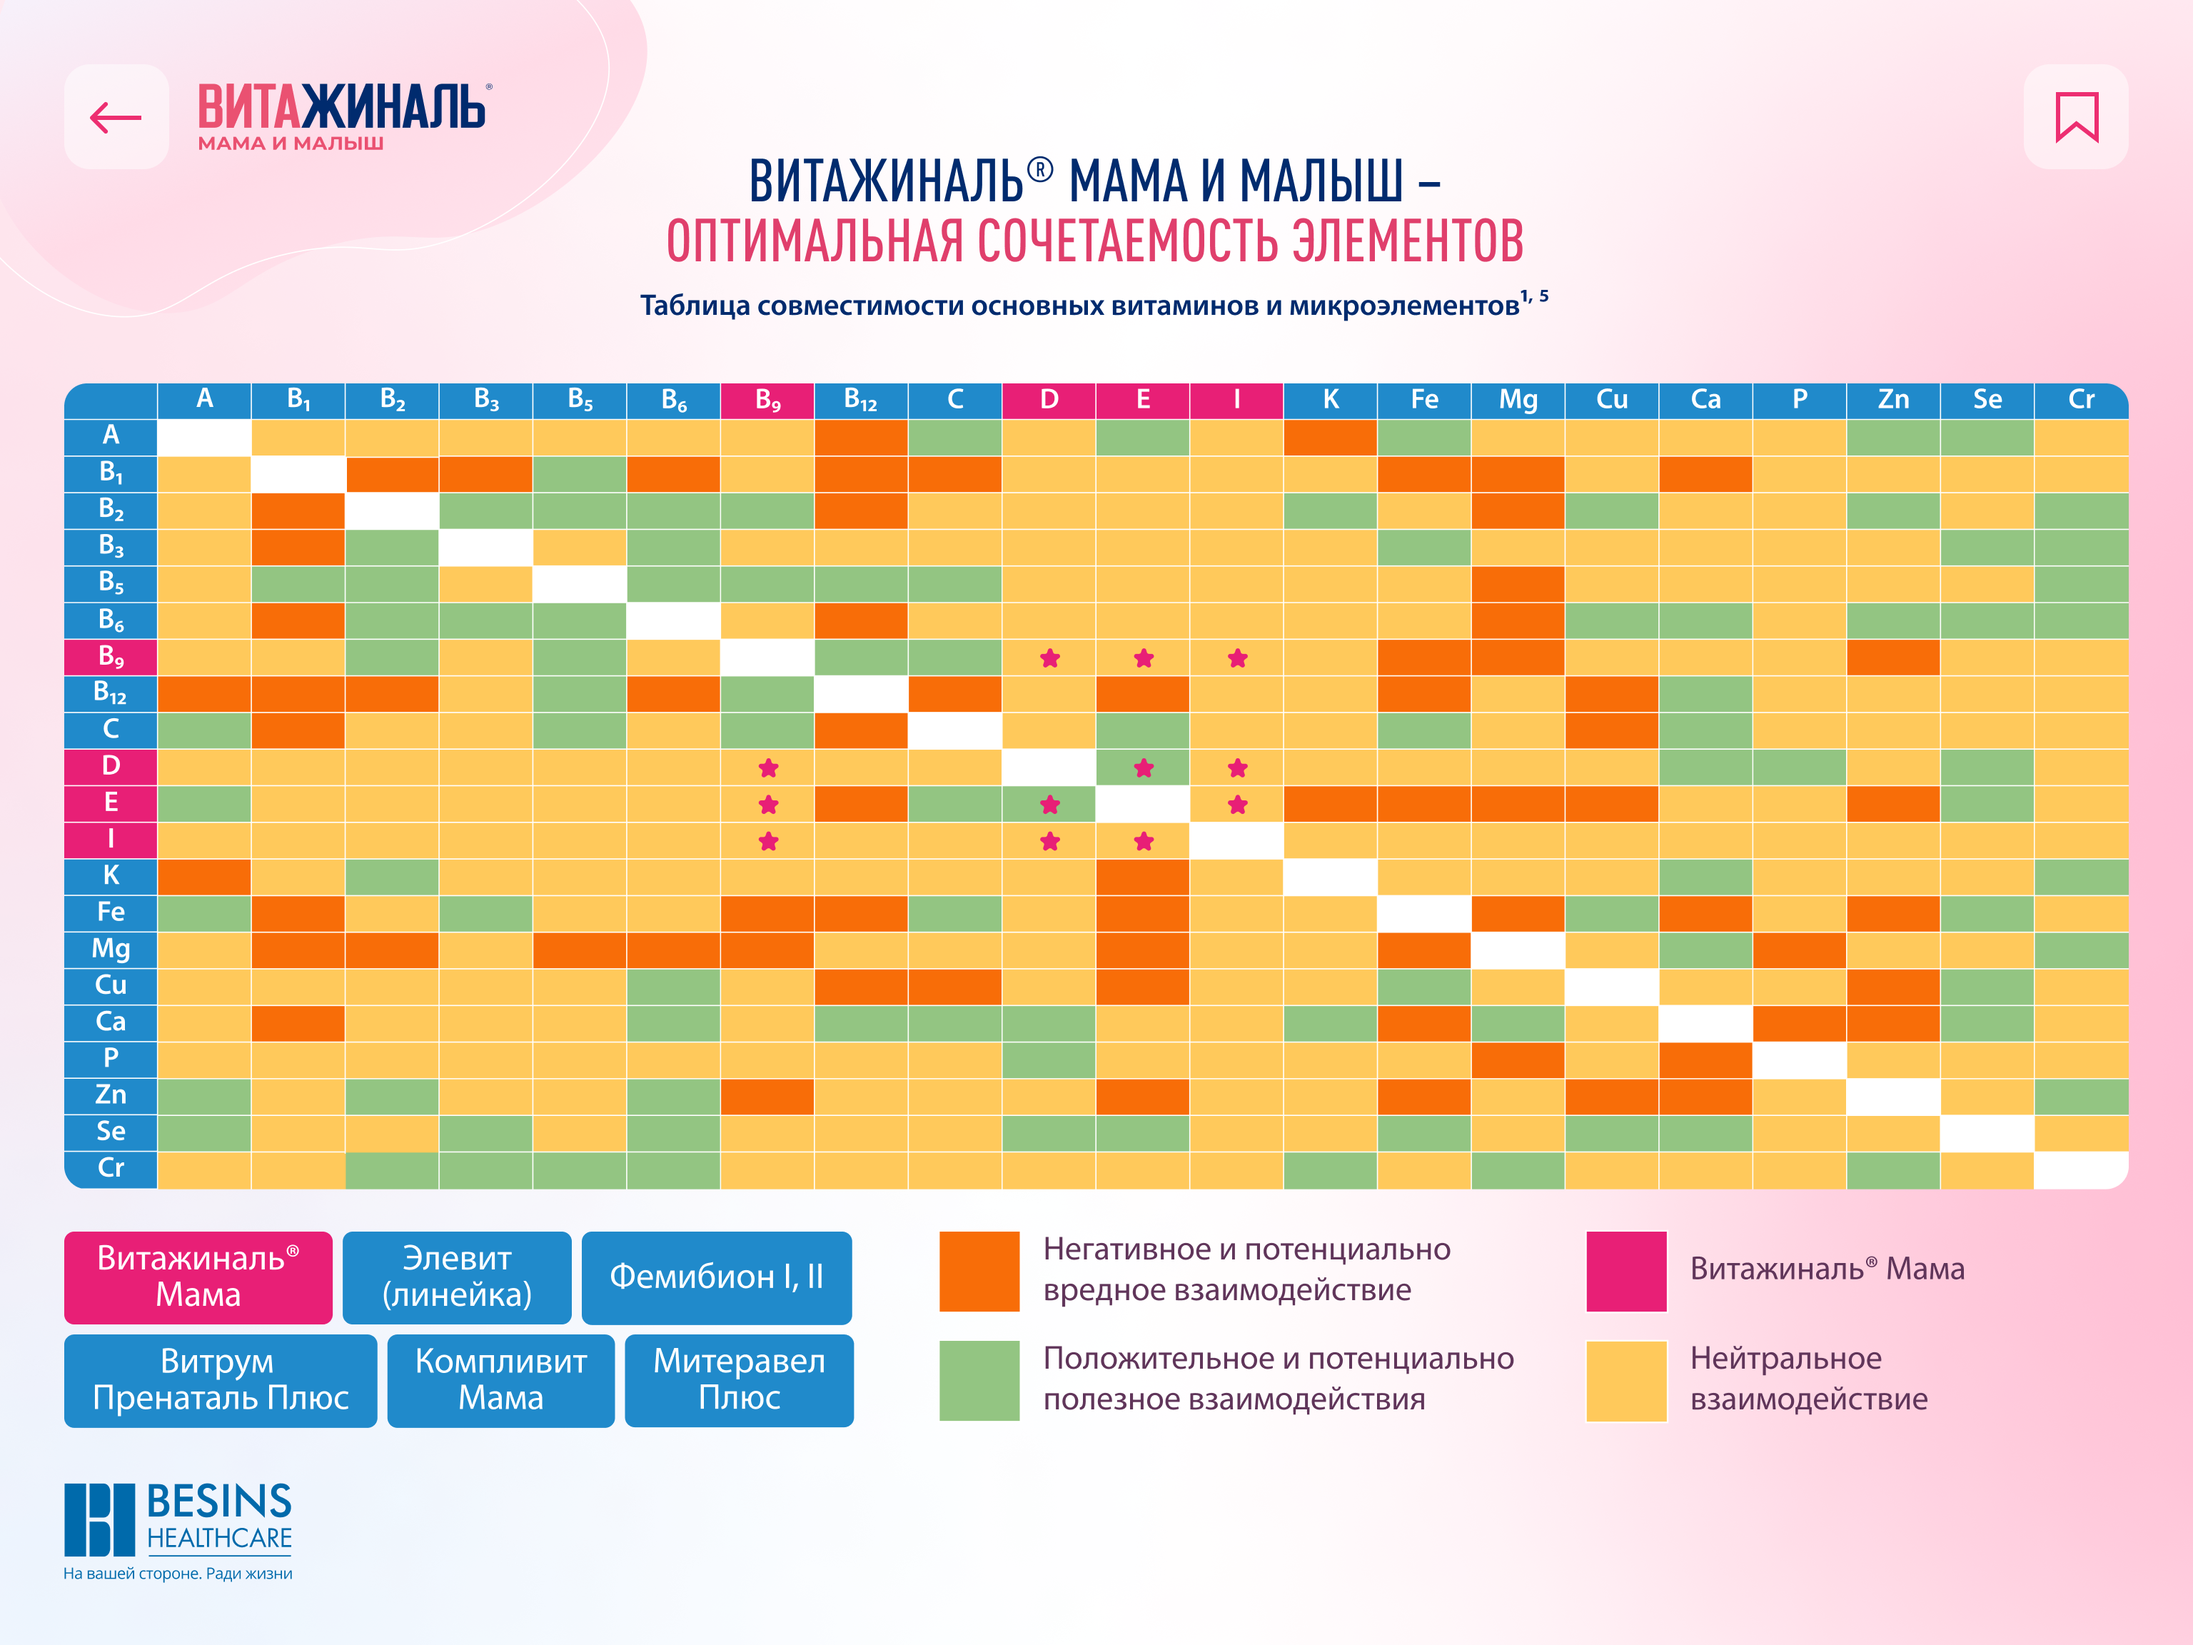
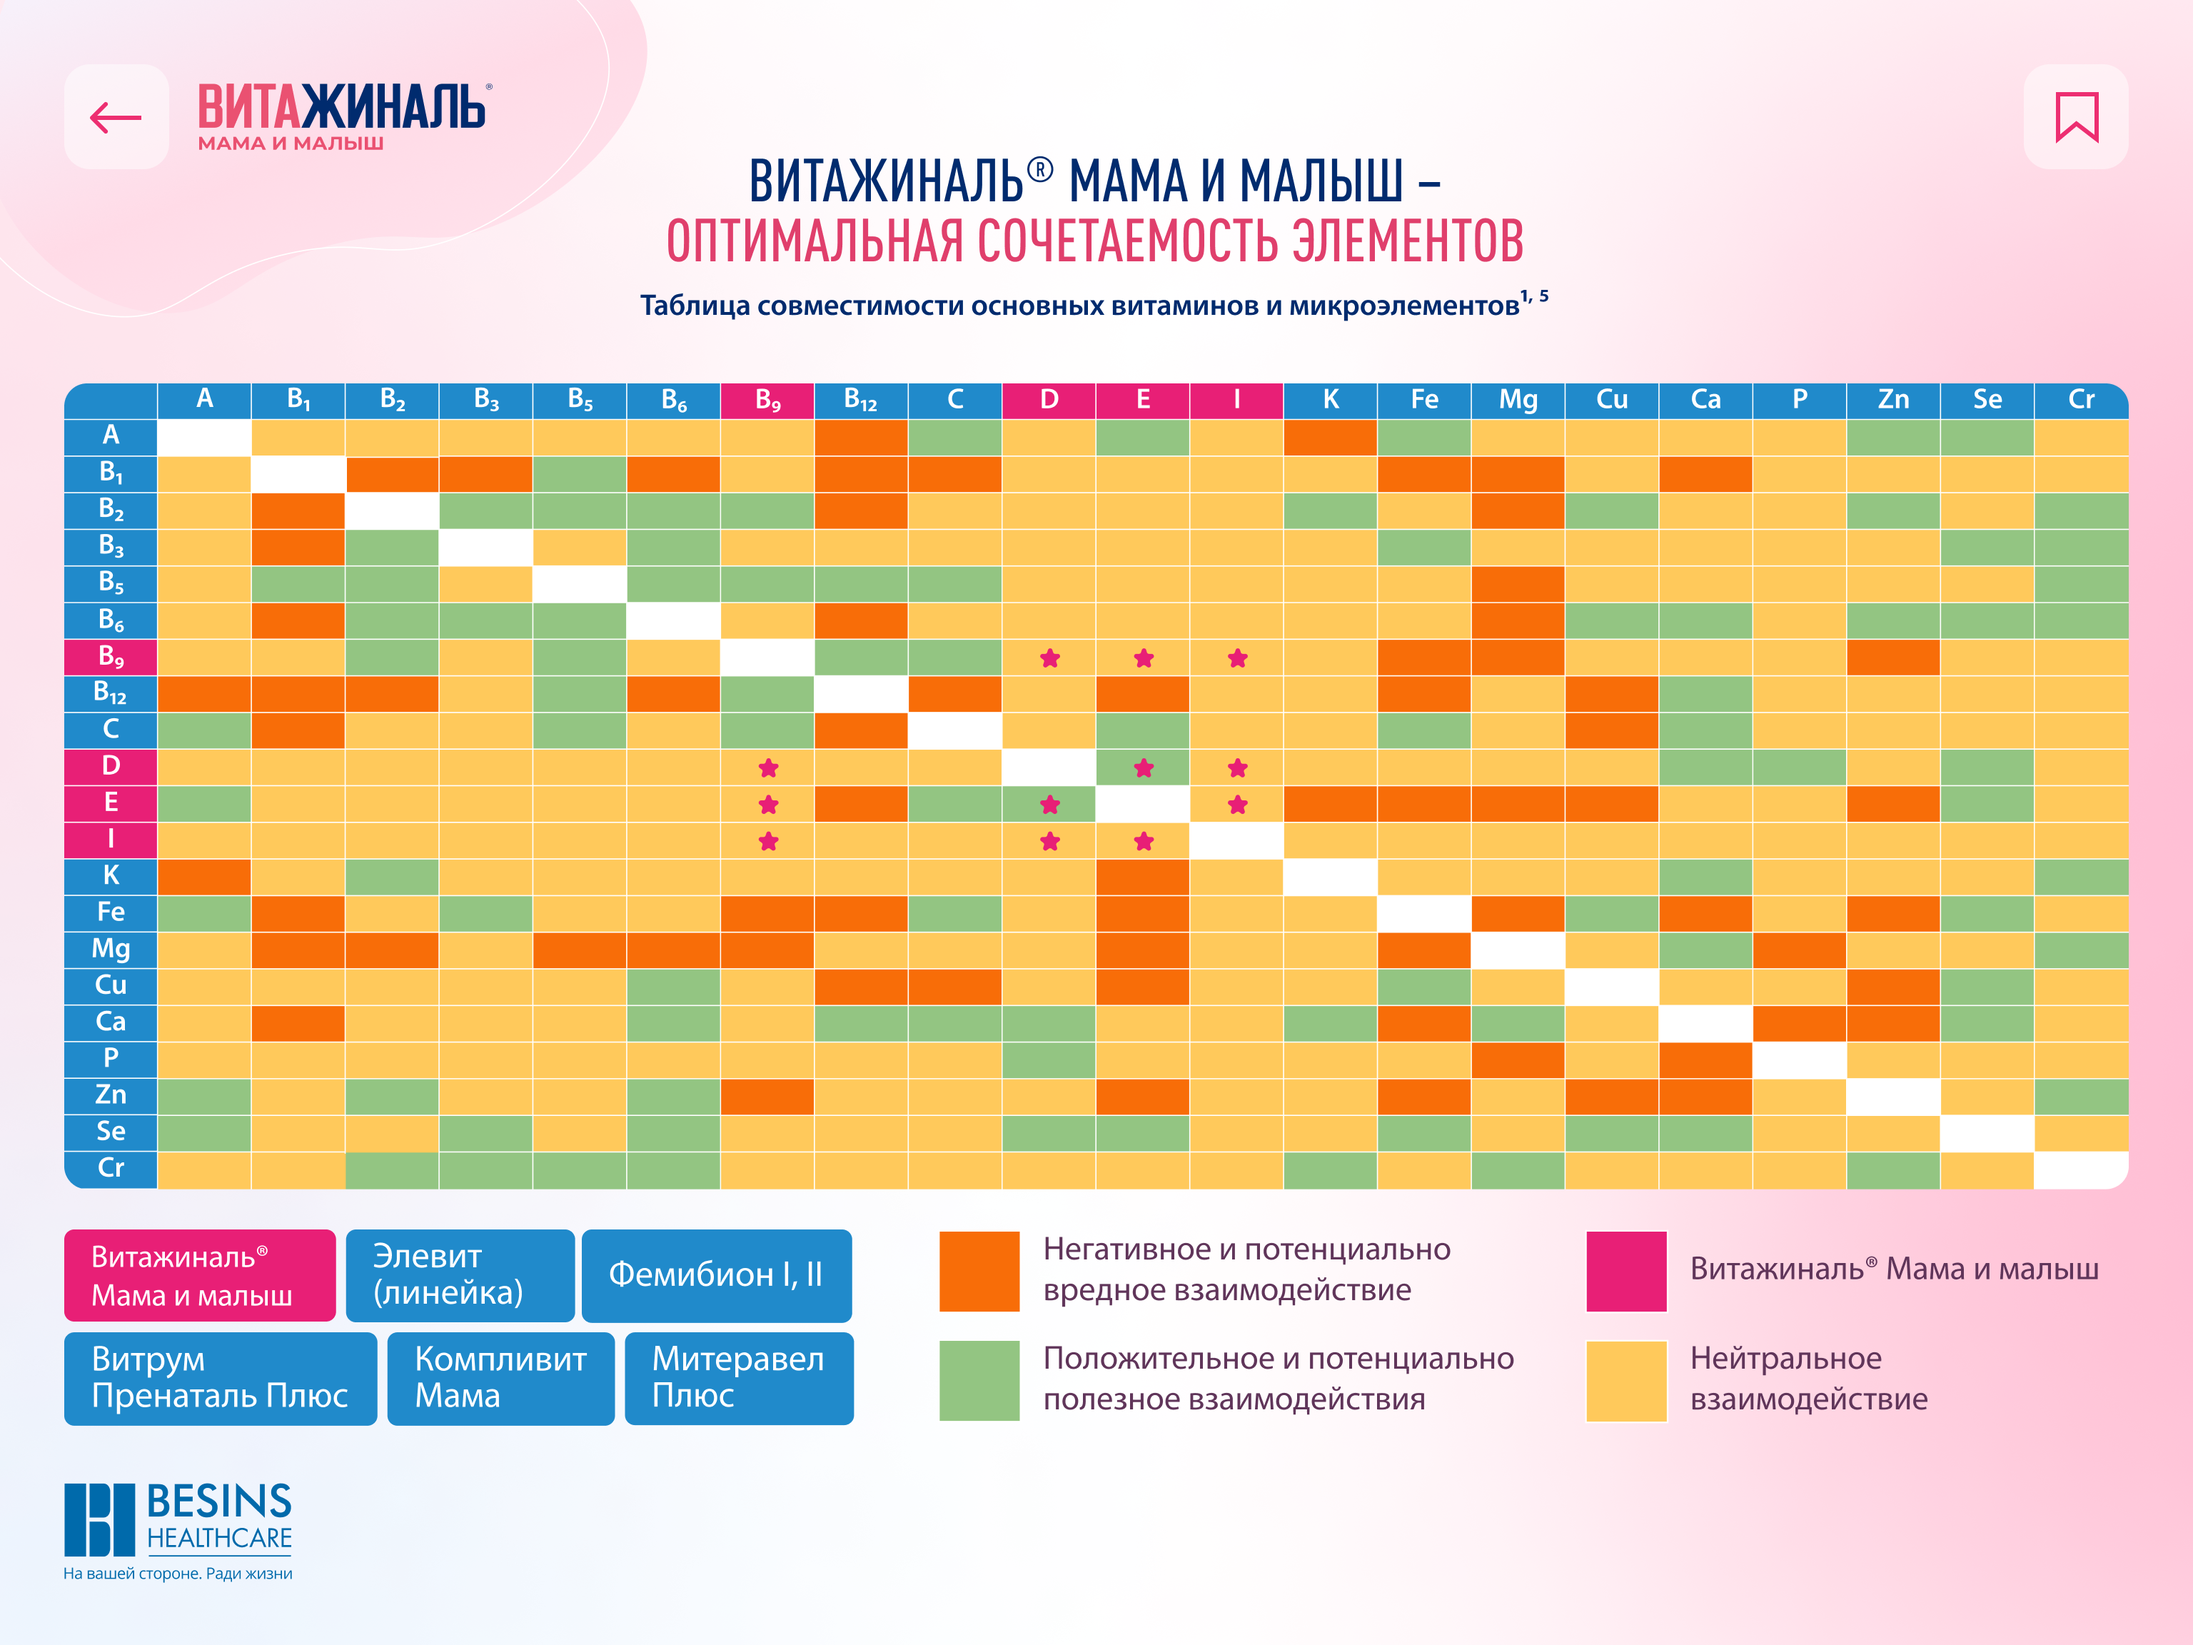
Замена слайдов

Changed region(s): [[0.0312, 0.75, 0.375, 0.875], [0.9062, 0.75, 0.9688, 0.7812]]

diff --git a/vitazhinal-mama/js/table.js b/vitazhinal-mama/js/table.js
@@ -14,7 +14,7 @@ let slide5 = "img/content/table-4.png";
 let slide6 = "img/content/table-5.png";
 
 btn1.onclick = function () {
-  btn1.classList.toggle("active");
+  btn1.classList.add("active");
 
   contentTable.src = slide1;
 
@@ -26,7 +26,7 @@ btn1.onclick = function () {
 };
 
 btn2.onclick = function () {
-  btn2.classList.toggle("active");
+  btn2.classList.add("active");
 
   contentTable.src = slide2;
 
@@ -38,7 +38,7 @@ btn2.onclick = function () {
 };
 
 btn3.onclick = function () {
-  btn3.classList.toggle("active");
+  btn3.classList.add("active");
 
   contentTable.src = slide3;
 
@@ -50,7 +50,7 @@ btn3.onclick = function () {
 };
 
 btn4.onclick = function () {
-  btn4.classList.toggle("active");
+  btn4.classList.add("active");
 
   contentTable.src = slide4;
 
@@ -62,7 +62,7 @@ btn4.onclick = function () {
 };
 
 btn5.onclick = function () {
-  btn5.classList.toggle("active");
+  btn5.classList.add("active");
 
   contentTable.src = slide5;
 
@@ -74,7 +74,7 @@ btn5.onclick = function () {
 };
 
 btn6.onclick = function () {
-  btn6.classList.toggle("active");
+  btn6.classList.add("active");
 
   contentTable.src = slide6;
 

diff --git a/vitazhinal-mama/Sostav_Komponentov_1.html b/vitazhinal-mama/Sostav_Komponentov_1.html
@@ -323,8 +323,10 @@
                         </div>
                       </div>
                       <div class="table-btns">
-                        <div class="btn-gg active" style="width: 125.5px" id="btn1">Витажиналь® Мама</div>
-                        <div class="btn-gg" style="width: 107px; left: 130px" id="btn2">
+                        <div class="btn-gg active" style="width: 127px; font-size: 14px" id="btn1">
+                          Витажиналь® Мама и малыш
+                        </div>
+                        <div class="btn-gg" style="width: 107px; left: 131px" id="btn2">
                           Элевит (линейка)
                         </div>
                         <div class="btn-gg" style="width: 127px; left: 242px" id="btn3">

diff --git a/vitazhinal-mama/Sostav_Komponentov_2.html b/vitazhinal-mama/Sostav_Komponentov_2.html
@@ -323,8 +323,10 @@
                         </div>
                       </div>
                       <div class="table-btns">
-                        <div class="btn-gg active" style="width: 125.5px" id="btn1">Витажиналь® Мама</div>
-                        <div class="btn-gg" style="width: 107px; left: 130px" id="btn2">
+                        <div class="btn-gg active" style="width: 127px; font-size: 14px" id="btn1">
+                          Витажиналь® Мама и малыш
+                        </div>
+                        <div class="btn-gg" style="width: 107px; left: 131px" id="btn2">
                           Элевит (линейка)
                         </div>
                         <div class="btn-gg" style="width: 127px; left: 242px" id="btn3">

diff --git a/vitazhinal-mama/Sostav_Komponentov_3.html b/vitazhinal-mama/Sostav_Komponentov_3.html
@@ -323,8 +323,10 @@
                         </div>
                       </div>
                       <div class="table-btns">
-                        <div class="btn-gg active" style="width: 125.5px" id="btn1">Витажиналь® Мама</div>
-                        <div class="btn-gg" style="width: 107px; left: 130px" id="btn2">
+                        <div class="btn-gg active" style="width: 127px; font-size: 14px" id="btn1">
+                          Витажиналь® Мама и малыш
+                        </div>
+                        <div class="btn-gg" style="width: 107px; left: 131px" id="btn2">
                           Элевит (линейка)
                         </div>
                         <div class="btn-gg" style="width: 127px; left: 242px" id="btn3">

diff --git a/vitazhinal-mama/Hot_4.html b/vitazhinal-mama/Hot_4.html
@@ -56,8 +56,10 @@
                         </div>
                       </div>
                       <div class="table-btns">
-                        <div class="btn-gg active" style="width: 125.5px" id="btn1">Витажиналь® Мама</div>
-                        <div class="btn-gg" style="width: 107px; left: 130px" id="btn2">
+                        <div class="btn-gg active" style="width: 127px; font-size: 14px" id="btn1">
+                          Витажиналь® Мама и малыш
+                        </div>
+                        <div class="btn-gg" style="width: 107px; left: 131px" id="btn2">
                           Элевит (линейка)
                         </div>
                         <div class="btn-gg" style="width: 127px; left: 242px" id="btn3">

diff --git a/vitazhinal-mama/css/style.css b/vitazhinal-mama/css/style.css
@@ -304,16 +304,16 @@ body {
 
 .btn-gg {
   justify-content: center;
-  font-size: 16px;
+  font-size: 15px;
   position: absolute;
   cursor: pointer;
   height: 45px;
-  text-align: center;
   color: #fff;
   background: #208acb;
   border-radius: 4.5px;
   display: flex;
   align-items: center;
+  padding: 0 4px;
 }
 
 .btn-gg.active {
